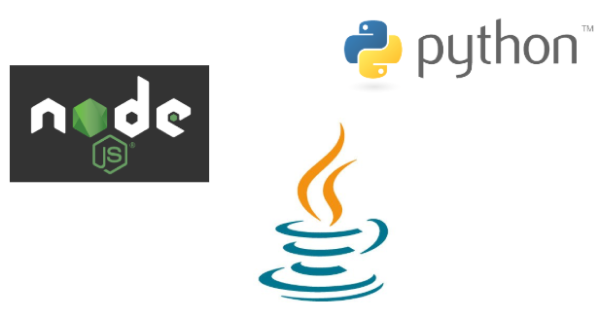
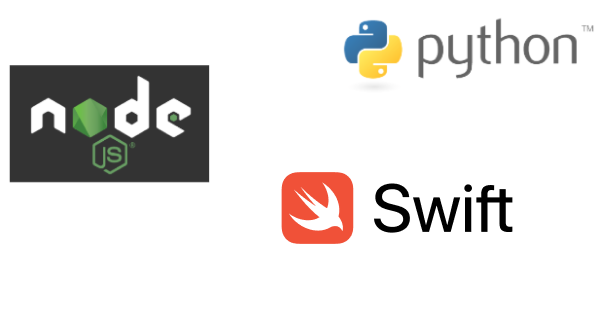
Add Zowe CLI Plugins, Zowe SDKs

Changed region(s): [[0.42, 0.4078, 0.87, 0.9903]]

diff --git a/index.md b/index.md
@@ -199,6 +199,14 @@ redirect_from:
       <div class="col-md-7 col-sm order-last order-sm-first">
         <a id="cli-intro"><h4>Zowe CLI</h4></a>
         <p style="margin: 1rem auto">Provides a command-line interface that lets you interact with the mainframe remotely and use common tools such as Integrated Development Environments (IDEs), shell commands, bash scripts, and build tools for mainframe development. It provides a set of utilities and services for application developers that want to become efficient in supporting and building z/OS applications quickly. The CLI provides a core set of commands for working with data sets, USS, JES, as well as issuing TSO and console commands.</p>
+          <p>Zowe CLI Plug-ins:
+            <a href="{{ site.zowe_cli_secure_credential_store_plugin_url }}">Secure Credential Store Plug-in</a>,&nbsp;
+            <a href="{{ site.zowe_cli_cics_plugin_url }}">CICS Plug-in</a>,&nbsp;
+            <a href="{{ site.zowe_cli_db2_plugin_url }}">Db2 Plug-in</a>,&nbsp;
+            <a href="{{ site.zowe_cli_ftp_plugin_url }}">FTP Plug-in</a>,&nbsp;
+            <a href="{{ site.zowe_cli_ims_plugin_url }}">IMS Plug-in</a>,&nbsp;
+            <a href="{{ site.zowe_cli_mq_plugin_url }}">MQ Plug-in</a> 
+          </p>
           <p>
             <a href="{{ site.zowe_cli_github_url }}">Code on GitHub</a>&nbsp;|&nbsp;
             <a href="{{ site.zowe_cli_slack_url }}">Connect on Slack</a>&nbsp;|&nbsp;
@@ -229,6 +237,11 @@ redirect_from:
       <div class="col-md-7 col-sm order-last order-sm-first">
         <a id="zowe-client-sdk-intro"><h4>Zowe Client SDKs (under development)</h4></a>
         <p style="margin: 1rem auto">Provides access to a set of programmatic APIs that you can use to build client applications or scripts that interact with z/OS. SDKs are available for Node.js and Python.</p>
+          <p>Zowe SDKs:
+            <a href="{{ site.zowe_node_sdk_url }}">Node SDK</a>,&nbsp;
+            <a href="{{ site.zowe_python_sdk_url }}">Python SDK</a>,&nbsp;
+            <a href="{{ site.zowe_swift_sdk_url }}">Swift SDK</a>
+          </p>
           <p>
             <a href="{{ site.zowe_sdk_github_url }}">Code on GitHub</a>&nbsp;|&nbsp;
             <a href="{{ site.zowe_sdk_slack_url }}">Connect on Slack</a>&nbsp;|&nbsp;
